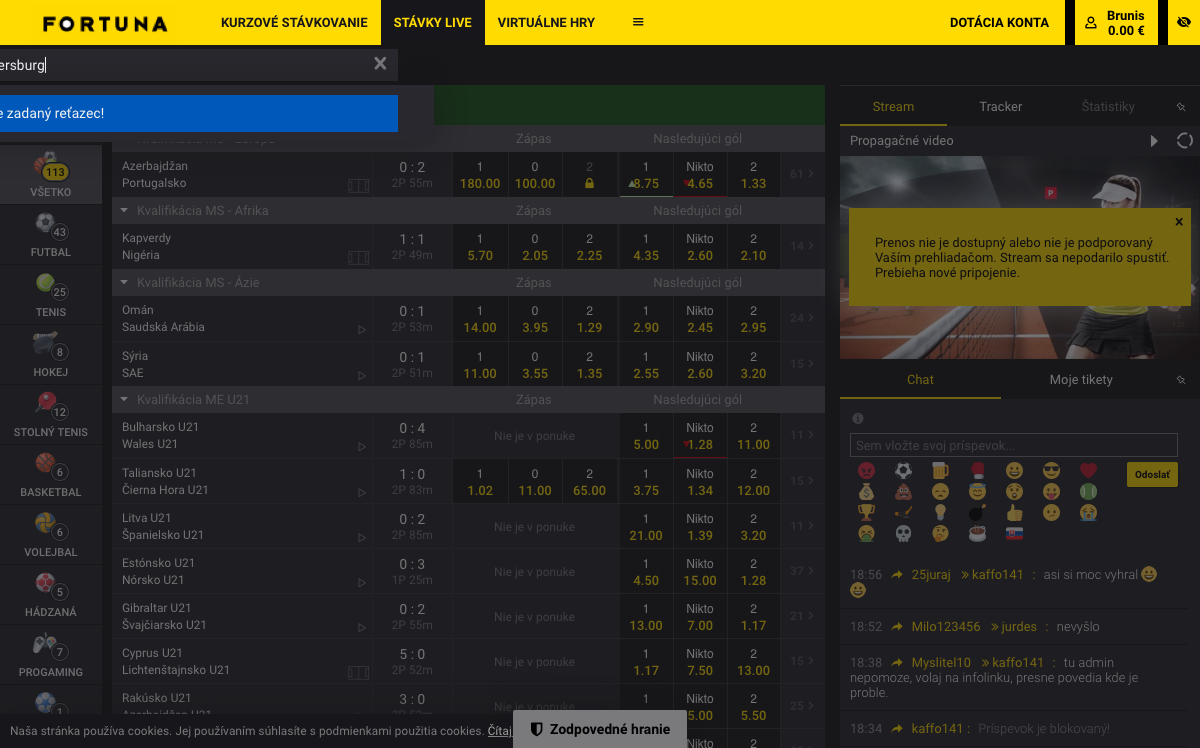
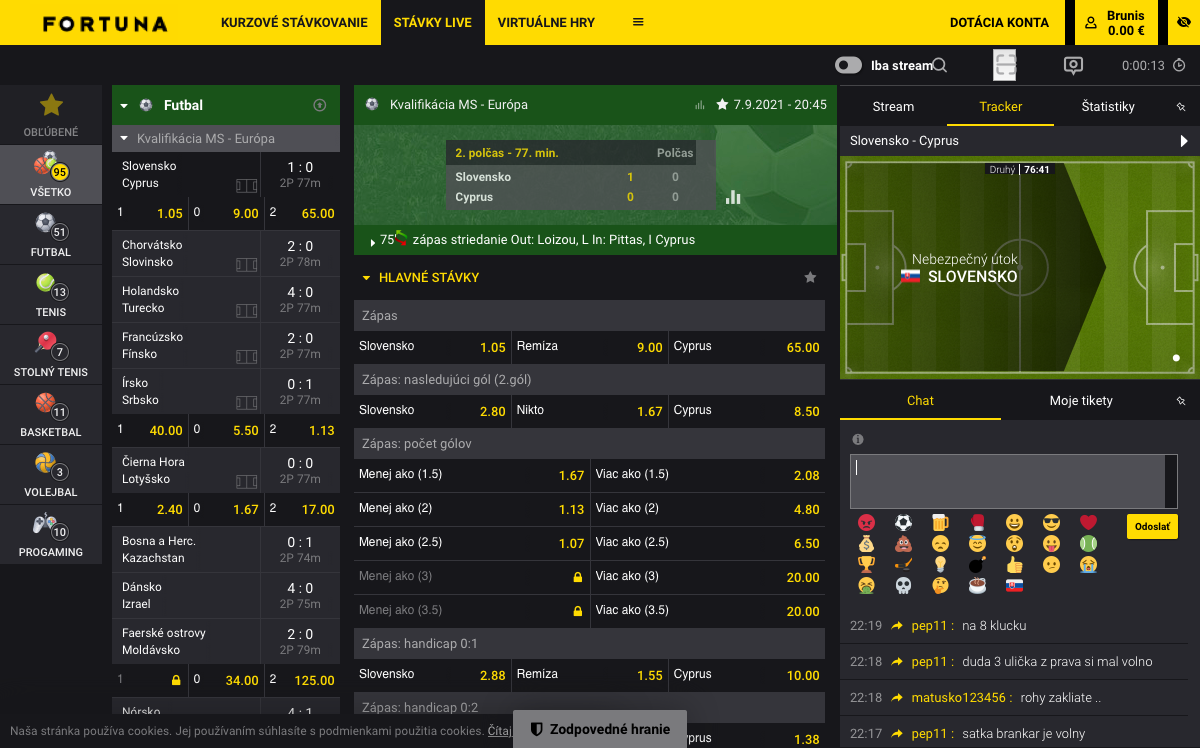
prepare for efficient betting

diff --git a/betting/brokers/ifortuna/ifortuna.py b/betting/brokers/ifortuna/ifortuna.py
@@ -24,12 +24,10 @@ class IFortuna():
         driver = setup_driver()
         driver.get(self.base_link)
         try:
-            sleep(1)
-            self._navigate_to_event(driver, event)
-            sleep(2)
+            result_count = self._find_similar_events(driver, event)
             img_path = './betting/brokers/ifortuna/data/tmp_screenshots/IFortunaFindEvent.png'
             driver.save_screenshot(img_path)
-            return {'event_img': img_path}
+            return {'event_img': img_path, 'result_count': result_count}
         except Exception as e:
             exception_img = './betting/brokers/ifortuna/data/tmp_screenshots/IFortunaFindEventException.png'
             driver.save_screenshot(exception_img)
@@ -44,14 +42,16 @@ class IFortuna():
         finally:
             driver.close()
     
-    def bet(self, account: dict, bet_info: dict) -> dict:
+    def bet(self, account: dict, bet_info: dict, search_position: int) -> dict:
         try:
             driver = setup_driver()
             driver.get(self.base_link)
             self._login(driver, account['name'], account['password'])
             wait_for_popup_close = WebDriverWait(driver, 20, 0.1)
-            wait_for_popup_close.until(ec.presence_of_element_located((By.XPATH, '//div[@class="simple_modal simple_modal--hidden simple_modal--with_overlay simple_modal--default  user-message user-message--show user-message__centered  responsible-gaming"]')))
-            self._navigate_to_event(driver, bet_info['event'])
+            wait_for_popup_close.until(ec.presence_of_element_located(
+                (By.XPATH, '//div[@class="simple_modal simple_modal--hidden simple_modal--with_overlay ' + 
+                'simple_modal--default  user-message user-message--show user-message__centered  responsible-gaming"]')))
+            self._navigate_to_event(driver, bet_info['event'], search_position)
             confirmation_img, bet_rate = self._place_bet(driver, bet_info, account['bet_amount'])
             bet_report = create_bet_result_report(bet_info, account, bet_rate, confirmation_img)
             self._logout(driver)
@@ -88,19 +88,32 @@ class IFortuna():
         login_button = driver.find_element_by_xpath('//*[@id="app"]//button[normalize-space(text())="Prihlásiť"]')
         login_button.click()
 
-    def _navigate_to_event(self, driver: WebDriver, event: str) -> None:
+    def _navigate_to_event(self, driver: WebDriver, event: str, search_position: int) -> None:
+        self._search_for_event(driver, event)
+        wait_for_search = WebDriverWait(driver, 0.5, 0.1)
+        try:
+            search_result = wait_for_search.until(ec.visibility_of_element_located(
+                (By.XPATH, '//*[@id="app"]//div[@class="fortuna_search_bar__running fortuna_search_bar_matches"]' + 
+                f'/div[{search_position}]/a[@class="fortuna_search_bar_matches__match_info_wrapper"]')))
+            search_result.click()
+        except:
+            raise Exception(f'Event name can be wrong, or this event is not available at {self.__str__()} broker.')
+
+    def _find_similar_events(self, driver: WebDriver, event: str) -> int:
+        self._search_for_event(driver, event)
+        wait_for_search = WebDriverWait(driver, 0.5, 0.1)
+        similar_events = wait_for_search.until(ec.presence_of_all_elements_located((By.XPATH, '//*[@id="app"]//div' + 
+            '[@class="fortuna_search_bar__running fortuna_search_bar_matches"]/div[a[@class="fortuna_search_bar_matches__match_info_wrapper"]]')))
+        return len(similar_events)
+
+    def _search_for_event(self, driver: WebDriver, event: str) -> None:
         search_field_button = driver.find_element_by_xpath('//*[@id="app"]//div[@class="view-menu__search-wrapper"]/button')
         search_field_button.click()
         wait_for_search_field = WebDriverWait(driver, 2)
         search_field = wait_for_search_field.until(ec.visibility_of_element_located((By.XPATH, '//*[@id="search-input"]')))
         parsed_event = event.split('|')
         self._send_keys_reliably(search_field, parsed_event[0])
-        wait_for_search = WebDriverWait(driver, 0.5, 0.1)
-        try:
-            search_result = wait_for_search.until(ec.visibility_of_element_located((By.XPATH, '//*[@id="app"]//div[@class="fortuna_search_bar__running fortuna_search_bar_matches"]/div[1]/a[@class="fortuna_search_bar_matches__match_info_wrapper"]')))
-            search_result.click()
-        except:
-            raise Exception(f'Event name can be wrong, or this event is not available at {self.__str__()} broker.')
+            
 
     def _place_bet(self, driver: WebDriver, bet_info: dict, bet_amount: int) -> Tuple[str, float]:
         bet = '//div[div[normalize-space(text()) = "' + bet_info['bet'] + '"]]//a[@title = "' + bet_info['specs'] + '"]'
@@ -111,7 +124,6 @@ class IFortuna():
             print(f'Bet not found after {BET_WAIT_TIME // 60} minutes.')
             return
         bet_rate = float(driver.find_element_by_xpath(bet + '/span[@class="odds_button__value"]/span').text)
-        sleep(2) # for element to be clickable
         bet_button.click()
         wait_bet_window = WebDriverWait(driver, 3)
         amount_field = wait_bet_window.until(ec.visibility_of_element_located((By.XPATH, '//*[@id="app_ticket"]//div[@class="ticket_stake"]/input')))
@@ -124,6 +136,10 @@ class IFortuna():
         confirmation_img = './betting/brokers/ifortuna/data/tmp_screenshots/IFortunaBetConfirmation.png'
         driver.save_screenshot(confirmation_img)
         return confirmation_img, bet_rate
+
+    def _bet_is_locked(self, driver: WebDriver, bet_xpath: str) -> bool:
+        
+            driver.find_element_by_xpath(bet_xpath + '/span[@class="odds_button__value"]/div[@class="icon icon--lock icon--size_auto"]')
 
     def _logout(self, driver: WebDriver) -> None:
         account_banner = driver.find_element_by_xpath('//*[@id="app"]//div[@class="user_panel__info_user_box"]')

diff --git a/my_discord/cogs/bet.py b/my_discord/cogs/bet.py
@@ -1,4 +1,7 @@
 import asyncio
+
+from discord.message import Message
+from betting.better.better_config import FROM_DECISION_EMOJIS, TO_DECISION_EMOJIS
 from betting.better.Better import Better
 from typing import List, Tuple
 from asgiref.sync import sync_to_async
@@ -17,8 +20,12 @@ class Bet(Cog):
             self.bot.cogs_ready.ready_up('bet')
 
     @command()
-    async def hello(self, ctx):
+    async def hello(self, ctx: Context):
         await ctx.channel.send(f'Hello {ctx.author.mention}!')
+
+    @command()
+    async def emoji_str(self, ctx: Context, *, arg):
+        await ctx.channel.send([str(emoji) for emoji in arg.split('|')])
 
     @command(name='bet', aliases=('b',))
     async def place_bets_all_accounts(self, ctx: Context, *, arg):
@@ -87,38 +94,38 @@ class Bet(Cog):
         approval_flags = {}
         for broker, event_findings in brokers_event.items():
             if 'exception' not in event_findings.keys():
-                approval_flags[broker] = await self.get_approval(broker, event_findings['event_img'], bet_info)
+                approval_flags[broker] = await self.get_approval(broker, event_findings['event_img'], event_findings['result_count'], bet_info)
             else:
                 approval_flags[broker] = False
                 await self.send_report(event_findings)
         return approval_flags
 
-    async def get_approval(self, broker: str, event_img: str, bet_info: dict) -> bool:
+    async def get_approval(self, broker: str, event_img: str, result_count: int, bet_info: dict) -> bool:
         user_decision_embed, files = await self.create_user_decision_embed(
             broker, 
             event_img, 
             bet_info
         )
         message = await self.bot.stdout.send(files=files, embed=user_decision_embed)
-        thumb_up = '👍'
-        thumb_down = '👎'
-        await message.add_reaction(thumb_up)
-        await message.add_reaction(thumb_down)
+        await self._add_decision_reactions(message, result_count)
         def check(reaction, user):
             return user in self.bot.legit_users and str(
-                reaction.emoji) in [thumb_up, thumb_down]
+                reaction.emoji) in FROM_DECISION_EMOJIS.keys()
         try:
-            reaction, user = await self.bot.wait_for('reaction_add', check=check, timeout=600)
+            reaction, user = await self.bot.wait_for('reaction_add', check=check, timeout=90)
         except asyncio.TimeoutError:
-            self.bot.stdout.send(f'Broker {broker}: You haven\'t made a decision, the bet is closed.')
-            return False
-        if str(reaction.emoji) == thumb_up:
-            await self.bot.stdout.send(f'Broker {broker}: Betting...')
-            return True
-        if str(reaction.emoji) == thumb_down:
+            self.bot.stdout.send(f'Broker {broker}: You haven\'t made a decision, the bet is skipped.')
+            return -1
+        if FROM_DECISION_EMOJIS[str(reaction.emoji)] == 'x':
             await self.bot.stdout.send(f'Broker {broker}: The bet is closed.')
-            return False
-        return False
+            return -1
+        await self.bot.stdout.send(f'Broker {broker}: Betting...')
+        return FROM_DECISION_EMOJIS[str(reaction.emoji)]
+    
+    async def _add_decision_reactions(self, message: Message, count: int) -> None:
+        for i in range(1, count + 1):
+            await message.add_reaction(TO_DECISION_EMOJIS[i])
+        await message.add_reaction(TO_DECISION_EMOJIS['x'])
 
     async def create_user_decision_embed(self, broker: str, event_img_path: str, bet_info: dict) -> Tuple[Embed, List[File]]:
         embed, tnail = await self.create_bet_embed_base(broker, f'{broker} broker bet confirmation:')

diff --git a/betting/better/Better.py b/betting/better/Better.py
@@ -45,10 +45,10 @@ class Better:
         brokers_to_bet = async_to_sync(self.bet_cog.send_for_approval)(brokers_event_results, bet_info)
         
         for broker, account in self.brokers.values():
-            if brokers_to_bet[str(broker)]:
+            if brokers_to_bet[str(broker)] != -1:
                 pool.apply_async(
                     broker.bet, 
-                    args=(account, bet_info), 
+                    args=(account, bet_info, brokers_to_bet[str(broker)]), 
                     callback=self.status_messages_update
                 )
                 

diff --git a/bet_bot_launcher.py b/bet_bot_launcher.py
@@ -11,7 +11,7 @@ if __name__ == '__main__':
 '''
 $bet
 futbal 
-Zvezda St.Petersburg|FC Chita
+Slovensko|cyprus
 Zápas: počet gólov
-Menej ako (3)
+Menej ako (2.5)
 '''
